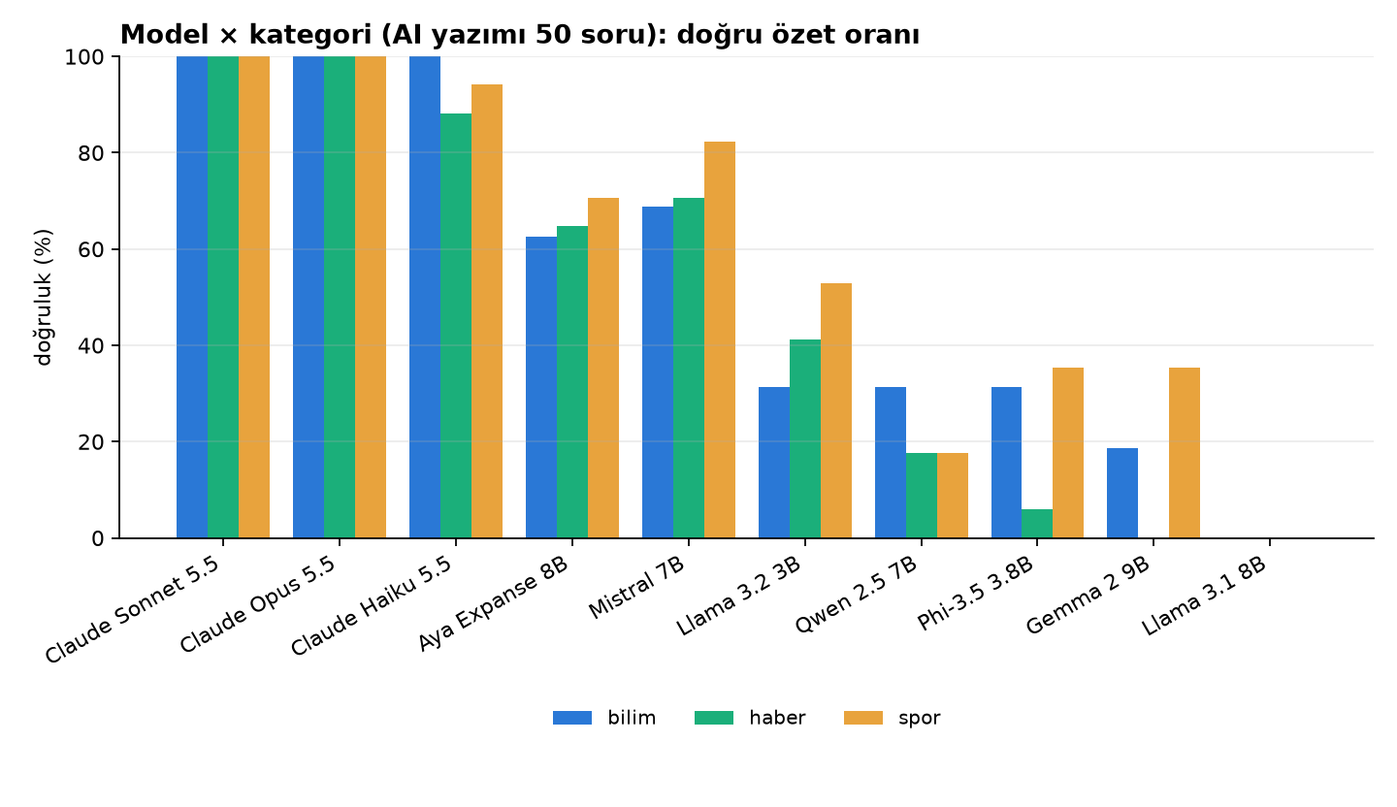
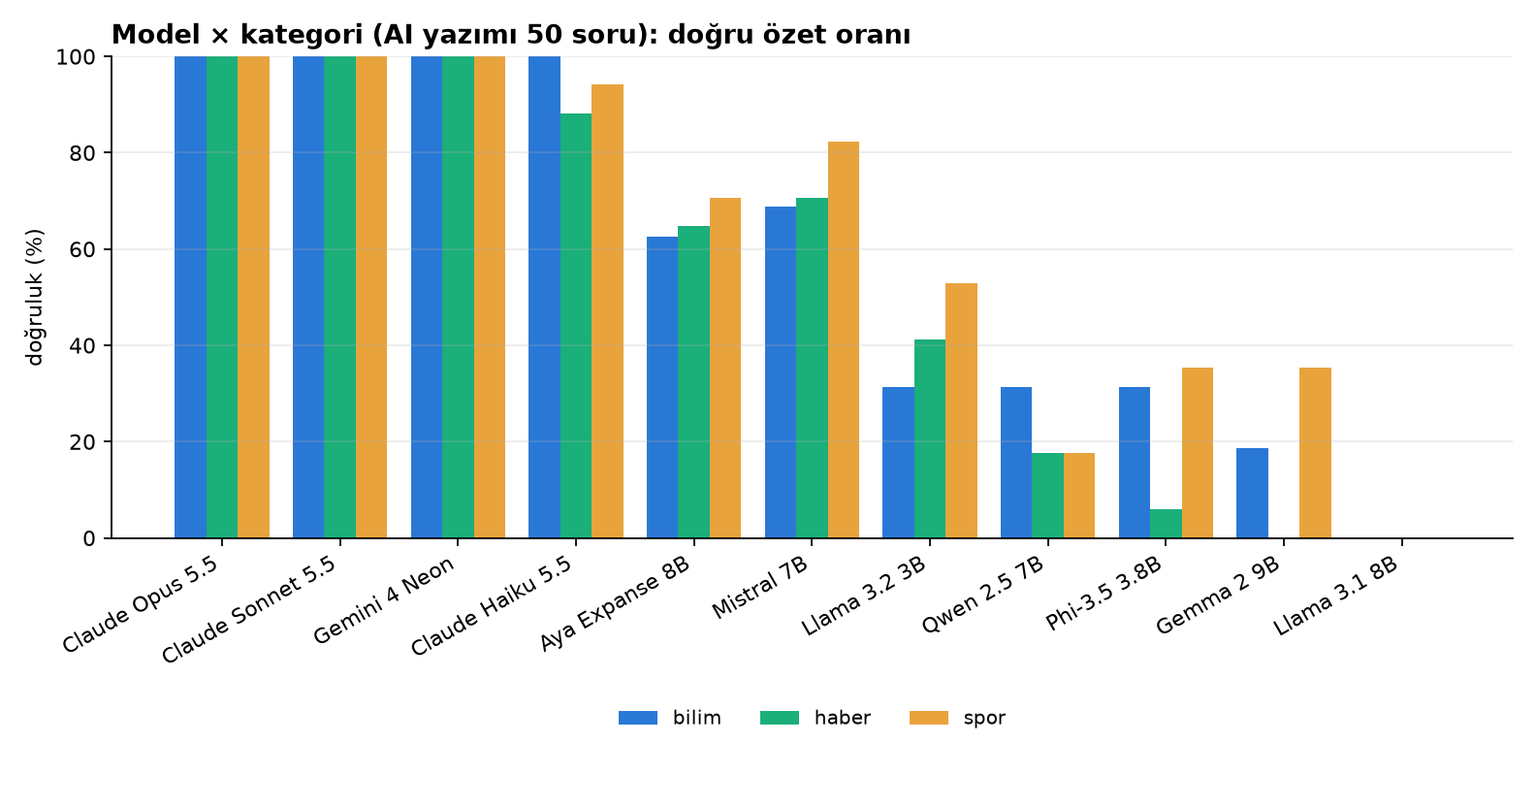
Add Gemini 4 Neon results and scores on the still-hidden questions

diff --git a/benchmark/scripts/tablo.py b/benchmark/scripts/tablo.py
@@ -81,7 +81,7 @@ SATIRLAR = [
      satir(lambda m: yuz([r for r in viki if r["soru_id"].startswith("vikd")], dogru, model=m)), pct, True),
     ("Kararlılık", "Stability", "Kararsızlık", "Instability", "sıcaklık 0.7, 3 deneme", "temperature 0.7, 3 runs",
      satir(lambda m: kararsiz.get(m)), pct, False),
-    ("Hız", "Speed", "Soru başına süre", "Time per question", "Apple M4, saniye", "Apple M4, seconds",
+    ("Hız", "Speed", "Soru başına süre", "Time per question", "yerel: Apple M4 · Gemini: web", "local: Apple M4 · Gemini: web",
      satir(sure), lambda v: f"{v:.1f} sn", False),
 ]
 

diff --git a/benchmark/README.md b/benchmark/README.md
@@ -4,7 +4,7 @@
 
 > LLM'ler Türkçe bir paragrafı özetlerken **kritik bilgileri (sayı, tarih, isim) koruyor mu, yoksa uyduruyor mu?**
 
-Sorular gizli (Hugging Face gated dataset), skorlar ve kod açık.
+Sorular gizli (Hugging Face gated dataset), skorlar ve kod açık. 100 insan sorusunun 50'si ortak açık bir benchmark'a eklendi; gizli kalan kısımdaki skorlar ayrıca veriliyor.
 **HF dataset:** [huggingface.co/datasets/foqunty/turkce-ozet-halusinasyon](https://huggingface.co/datasets/foqunty/turkce-ozet-halusinasyon) *(erişim istekli, elle onay)*
 
 ---
@@ -96,7 +96,7 @@ Bütün kişi, yer ve kurumlar **kurgusaldır**. Böylece model ezberinden cevap
 - İstem `v1` ([`scripts/ortak.py`](scripts/ortak.py)), sistem istemi yok, örnek yok.
 - **Açık modeller:** Ollama ile yerelde (Apple M4, 16 GB). Her soru ayrı bir mesaj, sıcaklık 0, tohum 42.
 - **Claude modelleri:** Claude Code alt ajanları. Her ajan temiz bağlamla başladı, sadece istem dosyasını okudu, cevap anahtarını görmedi. Sıcaklık ayarlanamadı, süre ölçülmedi.
-- **Gemini 4 Neon:** gemini.google.com web arayüzünde her soru için yeni bir **geçici sohbet**. Sıcaklık ayarlanamadı. Her cevabın tek mesajlık bir sohbetten geldiği ve doğru paragrafa ait olduğu kodla kontrol edildi.
+- **Gemini 4 Neon:** gemini.google.com web arayüzünde her soru için yeni bir **geçici sohbet**. Sıcaklık ayarlanamadı. Her cevabın tek mesajlık bir sohbetten geldiği ve doğru paragrafa ait olduğu kodla kontrol edildi. Bir cevap kaydedilirken cümle ortasında kesildi (cevap tamamlanmadan alındı); o soru yeni bir geçici sohbette tekrar soruldu ve CSV'de not edildi. Süre web arayüzünde ölçüldü (gönderimden cevabın tamamlanmasına kadar).
 - Model sürümü, tarih ve erişim yolu her cevabın `not`, `tarih` ve `erisim` sütunlarında kayıtlı.
 
 ## Sonuçlar
@@ -109,21 +109,41 @@ Bütün kişi, yer ve kurumlar **kurgusaldır**. Böylece model ezberinden cevap
 |---|---|---|---|---|---|---|---|---|
 | 1 | Claude Opus 5.5 | Anthropic | | **100%** | 100% | 100% | 3.00 | 0% |
 | 2 | Claude Sonnet 5.5 | Anthropic | | **100%** | 100% | 100% | 3.00 | 0% |
-| 3 | Claude Haiku 5.5 | Anthropic | | **98%** | 100% | 94% | 2.98 | 0% |
-| 4 | Aya Expanse 8B | Cohere | ✓ | **77%** | 83% | 66% | 2.76 | 1% |
-| 5 | Mistral 7B | Mistral AI | ✓ | **71%** | 69% | 74% | 2.68 | 3% |
-| 6 | Llama 3.2 3B | Meta | ✓ | **59%** | 67% | 42% | 2.49 | 0% |
-| 7 | Qwen 2.5 7B | Alibaba | ✓ | **53%** | 68% | 22% | 2.35 | 1% |
-| 8 | Phi-3.5 3.8B | Microsoft | ✓ | **39%** | 46% | 24% | 2.55 | 45% |
-| 9 | Gemma 2 9B | Google | ✓ | **34%** | 42% | 18% | 2.09 | 2% |
-| 10 | Llama 3.1 8B | Meta | ✓ | **6%** | 9% | 0% | 0.97 | 27% |
-| – | Gemini 4 Neon | Google | | *koşu sürüyor* | | | | |
+| 3 | Gemini 4 Neon | Google | | **100%** | 100% | 100% | 3.00 | 0% |
+| 4 | Claude Haiku 5.5 | Anthropic | | **98%** | 100% | 94% | 2.98 | 0% |
+| 5 | Aya Expanse 8B | Cohere | ✓ | **77%** | 83% | 66% | 2.76 | 1% |
+| 6 | Mistral 7B | Mistral AI | ✓ | **71%** | 69% | 74% | 2.68 | 3% |
+| 7 | Llama 3.2 3B | Meta | ✓ | **59%** | 67% | 42% | 2.49 | 0% |
+| 8 | Qwen 2.5 7B | Alibaba | ✓ | **53%** | 68% | 22% | 2.35 | 1% |
+| 9 | Phi-3.5 3.8B | Microsoft | ✓ | **39%** | 46% | 24% | 2.55 | 45% |
+| 10 | Gemma 2 9B | Google | ✓ | **34%** | 42% | 18% | 2.09 | 2% |
+| 11 | Llama 3.1 8B | Meta | ✓ | **6%** | 9% | 0% | 0.97 | 27% |
 
 Kategori ve zorluk kırılımları: [`sonuclar/ozet.md`](sonuclar/ozet.md).
 
+### Açık alt küme ve gizli kalan sorular
+
+100 insan sorusunun 50'si (her kategoriden 10, zorluk 10/25/15) ortak açık bir benchmark reposuna eklendi: [nexa-lab-ai/nexa-bench](https://github.com/nexa-lab-ai/nexa-bench) (`sorular/foqunty.csv`, `foq-051`–`foq-100`). Bu sorular artık eğitim verisine sızabilir. Bu yüzden skorlar gizli kalan kısımda ayrıca veriliyor:
+
+| model | açık 50 (insan) | gizli 50 (insan) | gizli 50 (AI) | gizli 100 |
+|---|---|---|---|---|
+| Claude Opus 5.5 | 100% | 100% | 100% | **100%** |
+| Claude Sonnet 5.5 | 100% | 100% | 100% | **100%** |
+| Gemini 4 Neon | 100% | 100% | 100% | **100%** |
+| Claude Haiku 5.5 | 100% | 100% | 94% | **97%** |
+| Aya Expanse 8B | 86% | 80% | 66% | **73%** |
+| Mistral 7B | 70% | 68% | 74% | **71%** |
+| Llama 3.2 3B | 66% | 68% | 42% | **55%** |
+| Qwen 2.5 7B | 66% | 70% | 22% | **46%** |
+| Phi-3.5 3.8B | 38% | 54% | 24% | **39%** |
+| Gemma 2 9B | 38% | 46% | 18% | **32%** |
+| Llama 3.1 8B | 10% | 8% | 0% | **4%** |
+
+İki insan yarısı birbirine yakın sonuç veriyor (açık modellerde ortalama fark 6 puan), yani bölme dengeli. Bundan sonra gelen modeller için asıl karşılaştırma "gizli 100" sütunu olmalı.
+
 ### Hangisi daha zor çıktı: insan mı, AI mı?
 
-**AI yazımı sorular daha zor çıktı.** Açık modellerin ortalaması insan sorularında %55, AI sorularında %35. Yedi model insan setinde daha iyi yaptı. Claude Opus ve Sonnet iki sette de %100 aldı, Mistral 7B ise tersine AI setinde daha iyi (69% / 74%).
+**AI yazımı sorular daha zor çıktı.** Açık modellerin ortalaması insan sorularında %55, AI sorularında %35. Yedi model insan setinde daha iyi yaptı. Claude Opus, Sonnet ve Gemini 4 Neon iki sette de %100 aldı, Mistral 7B ise tersine AI setinde daha iyi (69% / 74%).
 
 Fark büyük ihtimalle yazarın kim olduğundan değil, **metnin yoğunluğundan** geliyor. AI paragrafları daha uzun (ortalama 320 / 282 karakter) ve daha kalabalık: paragraf başına 5,4 sayı ve 4,9 özel isim var, insan setinde 3,8 ve 2,5. Modeller iki sette de yaklaşık aynı uzunlukta özet yazıyor (23–33 kelime). Bu yüzden yoğun metinde aynı kelime bütçesine daha çok bilgi sığdırmaları gerekiyor ve bilgi atlıyorlar. Qwen 2.5 7B'nin bilgi atlama oranı AI setinde %78, insan setinde %32. Yani bu karşılaştırmada "kim yazdı" ile "metin ne kadar yoğun" birbirinden ayrılamıyor.
 
@@ -140,7 +160,7 @@ Bütün koşular ücretsiz: açık modeller yerelde, Claude ve Gemini abonelik a
 
 ### Deney: gerçek Vikipedi metinleri + ezber tuzağı
 
-25 KPSS konulu Türkçe Vikipedi metni (CC BY-SA 4.0) ve her birinin tek bilgisi değiştirilmiş hâli kullanıldı (`scripts/vikipedi_seti.py`, ezber analizi `scripts/ezber.py`). Değiştirilmiş metinde 10 modelin hiçbiri ezberdeki gerçek değeri yazmadı (ezber = 0). Hatalar ezberden değil, bilgi atlamaktan ve uydurmaktan geliyor. Sonuçlar: [`sonuclar/ozet_viki.md`](sonuclar/ozet_viki.md).
+25 KPSS konulu Türkçe Vikipedi metni (CC BY-SA 4.0) ve her birinin tek bilgisi değiştirilmiş hâli kullanıldı (`scripts/vikipedi_seti.py`, ezber analizi `scripts/ezber.py`). Değiştirilmiş metinde bu deneye katılan 10 modelin (Gemini hariç) hiçbiri ezberdeki gerçek değeri yazmadı (ezber = 0). Hatalar ezberden değil, bilgi atlamaktan ve uydurmaktan geliyor. Sonuçlar: [`sonuclar/ozet_viki.md`](sonuclar/ozet_viki.md).
 
 ### Ek: tekrar kararsızlığı
 
@@ -167,7 +187,7 @@ Hakemler birbiriyle uyuşuyor ama kodla ancak yarı yarıya uyuşuyor, çünkü 
 
 ## Yorum
 
-1. Claude Opus ve Sonnet 150 sorunun hepsini doğru yaptı, Haiku 147'sini. Bu test en iyi modeller için doymuş durumda. Onları ayırmak için daha sıkı bir istem ("en fazla 20 kelime") ya da daha uzun metinler gerekiyor.
+1. Claude Opus, Claude Sonnet ve Gemini 4 Neon 150 sorunun hepsini doğru yaptı, Haiku 147'sini. Bu test en iyi modeller için doymuş durumda. Onları ayırmak için daha sıkı bir istem ("en fazla 20 kelime") ya da daha uzun metinler gerekiyor.
 2. Açık modellerde en iyiler Aya Expanse 8B (%77) ve Mistral 7B (%71). Aya, Türkçe dahil 23 dil için eğitilmiş tek model ve fark muhtemelen buradan geliyor.
 3. Hatalar iki türe ayrılıyor. Qwen, Gemma, Aya ve Llama 3.2 bilgiyi **atlıyor** ama neredeyse hiç uydurmuyor. Phi-3.5 ve Llama 3.1 ise metinde olmayan sayı ve isim **uyduruyor**: Phi-3.5 özetlerinin %45'inde, Llama 3.1'in %27'sinde uydurma var.
 4. Model boyutu tek başına belirleyici değil. Llama 3.2 3B (%59), kendinden büyük Llama 3.1 8B'yi (%6) ve Gemma 2 9B'yi (%34) geçti.

diff --git a/benchmark/README.en.md b/benchmark/README.en.md
@@ -4,7 +4,7 @@
 
 > When an LLM summarizes a Turkish paragraph, **does it keep the critical facts (number, date, name), or does it make them up?**
 
-The questions are hidden (Hugging Face gated dataset); the scores and the code are public.
+The questions are hidden (Hugging Face gated dataset); the scores and the code are public. 50 of the 100 human questions were added to a shared public benchmark; scores on the still-hidden part are reported separately.
 **HF dataset:** [huggingface.co/datasets/foqunty/turkce-ozet-halusinasyon](https://huggingface.co/datasets/foqunty/turkce-ozet-halusinasyon) *(gated, manual approval)*
 
 ---
@@ -100,7 +100,7 @@ All people, places and organizations are **fictional**, so a model cannot answer
 - Prompt `v1` ([`scripts/ortak.py`](scripts/ortak.py)), no system prompt, no examples.
 - **Open models:** local via Ollama (Apple M4, 16 GB). One message per question, temperature 0, seed 42.
 - **Claude models:** Claude Code subagents. Each agent started with a clean context, read only the prompt file and never saw the answer key. Temperature could not be set; time was not measured.
-- **Gemini 4 Neon:** a new **temporary chat** for every question in the gemini.google.com web UI. Temperature could not be set. Code checked that every answer came from a one-message chat and belongs to the right paragraph.
+- **Gemini 4 Neon:** a new **temporary chat** for every question in the gemini.google.com web UI. Temperature could not be set. Code checked that every answer came from a one-message chat and belongs to the right paragraph. One answer was captured mid-sentence (before it had finished); that question was asked again in a new temporary chat and this is noted in the CSV. Time was measured in the web UI (from sending to the finished answer).
 - Model version, date and access path are stored in the `not`, `tarih` and `erisim` columns of every answer.
 
 ## Results
@@ -113,21 +113,41 @@ All people, places and organizations are **fictional**, so a model cannot answer
 |---|---|---|---|---|---|---|---|---|
 | 1 | Claude Opus 5.5 | Anthropic | | **100%** | 100% | 100% | 3.00 | 0% |
 | 2 | Claude Sonnet 5.5 | Anthropic | | **100%** | 100% | 100% | 3.00 | 0% |
-| 3 | Claude Haiku 5.5 | Anthropic | | **98%** | 100% | 94% | 2.98 | 0% |
-| 4 | Aya Expanse 8B | Cohere | ✓ | **77%** | 83% | 66% | 2.76 | 1% |
-| 5 | Mistral 7B | Mistral AI | ✓ | **71%** | 69% | 74% | 2.68 | 3% |
-| 6 | Llama 3.2 3B | Meta | ✓ | **59%** | 67% | 42% | 2.49 | 0% |
-| 7 | Qwen 2.5 7B | Alibaba | ✓ | **53%** | 68% | 22% | 2.35 | 1% |
-| 8 | Phi-3.5 3.8B | Microsoft | ✓ | **39%** | 46% | 24% | 2.55 | 45% |
-| 9 | Gemma 2 9B | Google | ✓ | **34%** | 42% | 18% | 2.09 | 2% |
-| 10 | Llama 3.1 8B | Meta | ✓ | **6%** | 9% | 0% | 0.97 | 27% |
-| – | Gemini 4 Neon | Google | | *run in progress* | | | | |
+| 3 | Gemini 4 Neon | Google | | **100%** | 100% | 100% | 3.00 | 0% |
+| 4 | Claude Haiku 5.5 | Anthropic | | **98%** | 100% | 94% | 2.98 | 0% |
+| 5 | Aya Expanse 8B | Cohere | ✓ | **77%** | 83% | 66% | 2.76 | 1% |
+| 6 | Mistral 7B | Mistral AI | ✓ | **71%** | 69% | 74% | 2.68 | 3% |
+| 7 | Llama 3.2 3B | Meta | ✓ | **59%** | 67% | 42% | 2.49 | 0% |
+| 8 | Qwen 2.5 7B | Alibaba | ✓ | **53%** | 68% | 22% | 2.35 | 1% |
+| 9 | Phi-3.5 3.8B | Microsoft | ✓ | **39%** | 46% | 24% | 2.55 | 45% |
+| 10 | Gemma 2 9B | Google | ✓ | **34%** | 42% | 18% | 2.09 | 2% |
+| 11 | Llama 3.1 8B | Meta | ✓ | **6%** | 9% | 0% | 0.97 | 27% |
 
 Breakdowns by category and difficulty: [`sonuclar/ozet.md`](sonuclar/ozet.md).
 
+### Public subset and the still-hidden questions
+
+50 of the 100 human questions (10 per category, difficulty 10/25/15) were added to a shared public benchmark repo: [nexa-lab-ai/nexa-bench](https://github.com/nexa-lab-ai/nexa-bench) (`sorular/foqunty.csv`, `foq-051`–`foq-100`). These questions can now leak into training data, so scores on the still-hidden part are reported separately:
+
+| model | public 50 (human) | hidden 50 (human) | hidden 50 (AI) | hidden 100 |
+|---|---|---|---|---|
+| Claude Opus 5.5 | 100% | 100% | 100% | **100%** |
+| Claude Sonnet 5.5 | 100% | 100% | 100% | **100%** |
+| Gemini 4 Neon | 100% | 100% | 100% | **100%** |
+| Claude Haiku 5.5 | 100% | 100% | 94% | **97%** |
+| Aya Expanse 8B | 86% | 80% | 66% | **73%** |
+| Mistral 7B | 70% | 68% | 74% | **71%** |
+| Llama 3.2 3B | 66% | 68% | 42% | **55%** |
+| Qwen 2.5 7B | 66% | 70% | 22% | **46%** |
+| Phi-3.5 3.8B | 38% | 54% | 24% | **39%** |
+| Gemma 2 9B | 38% | 46% | 18% | **32%** |
+| Llama 3.1 8B | 10% | 8% | 0% | **4%** |
+
+The two human halves give similar results (6 points apart on average for open models), so the split is balanced. For models added later, the main comparison should be the "hidden 100" column.
+
 ### Which was harder: human or AI questions?
 
-**AI-written questions were harder.** Open models average 55% on human questions and 35% on AI questions. Seven models did better on the human set. Claude Opus and Sonnet scored 100% on both, and Mistral 7B is the exception, doing better on the AI set (69% / 74%).
+**AI-written questions were harder.** Open models average 55% on human questions and 35% on AI questions. Seven models did better on the human set. Claude Opus, Sonnet and Gemini 4 Neon scored 100% on both, and Mistral 7B is the exception, doing better on the AI set (69% / 74%).
 
 The gap most likely comes from **text density**, not from who wrote the text. AI paragraphs are longer (320 vs. 282 characters on average) and more crowded: 5.4 numbers and 4.9 proper names per paragraph, against 3.8 and 2.5 in the human set. Models write summaries of about the same length on both sets (23–33 words), so on dense text they have to fit more facts into the same word budget, and they drop facts. Qwen 2.5 7B drops at least one fact in 78% of AI questions and 32% of human questions. In this comparison, "who wrote it" and "how dense the text is" cannot be separated.
 
@@ -144,7 +164,7 @@ Every run was free: open models locally, Claude and Gemini through subscription 
 
 ### Experiment: real Wikipedia texts + memorization trap
 
-25 Turkish Wikipedia texts on exam topics (CC BY-SA 4.0), each also in a version with one fact changed (`scripts/vikipedi_seti.py`, analysis in `scripts/ezber.py`). On the altered texts, none of the 10 models wrote the memorized real value (memorization = 0). Errors come from dropping and inventing facts, not from memory. Results: [`sonuclar/ozet_viki.md`](sonuclar/ozet_viki.md).
+25 Turkish Wikipedia texts on exam topics (CC BY-SA 4.0), each also in a version with one fact changed (`scripts/vikipedi_seti.py`, analysis in `scripts/ezber.py`). On the altered texts, none of the 10 models in this experiment (Gemini was not included) wrote the memorized real value (memorization = 0). Errors come from dropping and inventing facts, not from memory. Results: [`sonuclar/ozet_viki.md`](sonuclar/ozet_viki.md).
 
 ### Extra: repeat instability
 
@@ -171,7 +191,7 @@ The judges agree with each other but only about half the time with the code, bec
 
 ## Interpretation
 
-1. Claude Opus and Sonnet got all 150 questions right, Haiku 147. The test is saturated for the best models. Telling them apart needs a stricter prompt ("at most 20 words") or longer texts.
+1. Claude Opus, Claude Sonnet and Gemini 4 Neon got all 150 questions right, Haiku 147. The test is saturated for the best models. Telling them apart needs a stricter prompt ("at most 20 words") or longer texts.
 2. Among open models, the best are Aya Expanse 8B (77%) and Mistral 7B (71%). Aya is the only model trained for 23 languages including Turkish, which likely explains the gap.
 3. Errors fall into two types. Qwen, Gemma, Aya and Llama 3.2 **drop** facts but almost never invent. Phi-3.5 and Llama 3.1 **invent** numbers and names that are not in the text: 45% of Phi-3.5's summaries and 27% of Llama 3.1's contain invented items.
 4. Model size alone does not decide. Llama 3.2 3B (59%) beat the larger Llama 3.1 8B (6%) and Gemma 2 9B (34%).

diff --git a/gorevler/task6_yerel_model.md b/gorevler/task6_yerel_model.md
@@ -1,6 +1,6 @@
 # Task 6 · Yerel model (Ollama)
 
-7 açık ağırlıklı model bu Mac'te **Ollama** ile yerelde koşuldu: Apple M4, 16 GB RAM, ekran kartı yok. Hepsi benchmark'ın 150 sorusunun tamamına cevap verdi (görev 30 soru istiyordu). Aynı sorular bulutta Claude ile de koşuldu.
+7 açık ağırlıklı model bu Mac'te **Ollama** ile yerelde koşuldu: Apple M4, 16 GB RAM, ekran kartı yok. Hepsi benchmark'ın 150 sorusunun tamamına cevap verdi (görev 30 soru istiyordu). Aynı sorular bulutta Claude ve Gemini ile de koşuldu.
 
 ![Ollama: kurulu modeller ve örnek bir özet](ekranlar/task6_ollama.png)
 
@@ -10,6 +10,7 @@
 |---|---|---|---|---|---|---|
 | Claude Opus 5.5 | bulut | **100%** | 0% | – | abonelik | – |
 | Claude Sonnet 5.5 | bulut | **100%** | 0% | – | abonelik | – |
+| Gemini 4 Neon | bulut (web) | **100%** | 0% | 13.0 | abonelik | – |
 | Claude Haiku 5.5 | bulut | **98%** | 0% | – | abonelik | – |
 | Aya Expanse 8B | yerel | **77%** | 1% | 15.0 | 0 TL | 5.1 GB |
 | Mistral 7B | yerel | **71%** | 3% | 14.3 | 0 TL | 4.4 GB |
@@ -19,10 +20,10 @@
 | Gemma 2 9B | yerel | **34%** | 2% | 10.9 | 0 TL | 5.4 GB |
 | Llama 3.1 8B | yerel | **6%** | 27% | 6.0 | 0 TL | 4.9 GB |
 
-*Yerel modeller: Ollama 0.40, sıcaklık 0, tohum 42, istem v1. Claude modellerinde süre ölçülmedi. Doğruluk: özet üç kritik bilgiyi de koruyor ve hiçbir şey uydurmuyor. Ayrıntılar: [benchmark sonuçları](../benchmark/README.md#sonuçlar).*
+*Yerel modeller: Ollama 0.40, sıcaklık 0, tohum 42, istem v1. Claude modellerinde süre ölçülmedi; Gemini'nin süresi web arayüzünde ölçüldü. Doğruluk: özet üç kritik bilgiyi de koruyor ve hiçbir şey uydurmuyor. Ayrıntılar: [benchmark sonuçları](../benchmark/README.md#sonuçlar).*
 
 ## Yerel model ne zaman yeter?
 
 - **Yeter:** Aya Expanse 8B ve Mistral 7B özetlerin dörtte üçüne yakınında üç bilgiyi de koruyor ve neredeyse hiç uydurmuyor. Sonucu bir insanın kontrol edeceği işlerde ücretsiz, internetsiz ve verinin dışarı çıkmadığı bir seçenek.
 - **Yetmez:** Açık modellerin asıl hatası bilgiyi atlamak. Phi-3.5 ve Llama 3.1 ise metinde olmayan sayı ve isim uyduruyor. Doğruluğun kritik olduğu yerde (resmî metin, haber) kontrolsüz kullanılamaz.
-- **Ne kaybediyorsun:** En iyi yerel model ile Claude arasında 23 puan fark var. Hız sorun değil (soru başına 4–15 sn); asıl kayıp doğruluk ve Türkçe akıcılık. Model seçimi boyuttan önemli: 3B'lik Llama 3.2, 8B'lik Llama 3.1'den 53 puan iyi.
+- **Ne kaybediyorsun:** En iyi yerel model ile en iyi bulut modelleri (Claude Opus, Sonnet, Gemini) arasında 23 puan fark var. Hız sorun değil (soru başına 4–15 sn); asıl kayıp doğruluk ve Türkçe akıcılık. Model seçimi boyuttan önemli: 3B'lik Llama 3.2, 8B'lik Llama 3.1'den 53 puan iyi.

diff --git a/README.en.md b/README.en.md
@@ -10,6 +10,7 @@ Each question is a Turkish paragraph with 3 critical facts (a number, a date, a 
 |---|---|---|---|
 | Claude Opus 5.5 | **100%** | 100% | 100% |
 | Claude Sonnet 5.5 | **100%** | 100% | 100% |
+| Gemini 4 Neon | **100%** | 100% | 100% |
 | Claude Haiku 5.5 | **98%** | 100% | 94% |
 | Aya Expanse 8B | **77%** | 83% | 66% |
 | Mistral 7B | **71%** | 69% | 74% |
@@ -18,9 +19,8 @@ Each question is a Turkish paragraph with 3 critical facts (a number, a date, a 
 | Phi-3.5 3.8B | **39%** | 46% | 24% |
 | Gemma 2 9B | **34%** | 42% | 18% |
 | Llama 3.1 8B | **6%** | 9% | 0% |
-| Gemini 4 Neon | *run in progress* | | |
 
-150 fictional paragraphs (100 human-written, 50 AI-written) · prompt v1 · open models via Ollama on an Apple M4, temperature 0. **AI-written questions turned out harder**: open models average 55% on human questions and 35% on AI questions.
+150 fictional paragraphs (100 human-written, 50 AI-written) · 11 models, 7 companies · prompt v1 · open models via Ollama on an Apple M4, temperature 0. Claude Opus, Claude Sonnet and Gemini 4 Neon got all 150 right. **AI-written questions turned out harder**: open models average 55% on human questions and 35% on AI questions.
 
 Hidden question set: [Hugging Face, gated](https://huggingface.co/datasets/foqunty/turkce-ozet-halusinasyon)
 
@@ -92,6 +92,6 @@ Related work (in Turkish):
 - [alignment-handbook review and a base vs instruct run](gorevler/task2_alignment_handbook.md) (SmolLM2-135M with lm-evaluation-harness)
 - [Local models vs cloud](gorevler/task6_yerel_model.md) (Ollama, Apple M4)
 
-The question set and answer key are kept hidden (so they do not leak into model training) and are not in this repo. Access: [Hugging Face](https://huggingface.co/datasets/foqunty/turkce-ozet-halusinasyon).
+The question set and answer key are kept hidden (so they do not leak into model training) and are not in this repo. 50 of the 100 human questions are public in [nexa-bench](https://github.com/nexa-lab-ai/nexa-bench); scores on the 100 still-hidden questions are in [benchmark/README.en.md](benchmark/README.en.md#public-subset-and-the-still-hidden-questions). Access: [Hugging Face](https://huggingface.co/datasets/foqunty/turkce-ozet-halusinasyon).
 
 License: code MIT, dataset CC BY-NC 4.0.

diff --git a/README.md b/README.md
@@ -10,6 +10,7 @@ Her soru, içinde 3 kritik bilgi (sayı, tarih, isim) olan bir Türkçe paragraf
 |---|---|---|---|
 | Claude Opus 5.5 | **100%** | 100% | 100% |
 | Claude Sonnet 5.5 | **100%** | 100% | 100% |
+| Gemini 4 Neon | **100%** | 100% | 100% |
 | Claude Haiku 5.5 | **98%** | 100% | 94% |
 | Aya Expanse 8B | **77%** | 83% | 66% |
 | Mistral 7B | **71%** | 69% | 74% |
@@ -18,9 +19,8 @@ Her soru, içinde 3 kritik bilgi (sayı, tarih, isim) olan bir Türkçe paragraf
 | Phi-3.5 3.8B | **39%** | 46% | 24% |
 | Gemma 2 9B | **34%** | 42% | 18% |
 | Llama 3.1 8B | **6%** | 9% | 0% |
-| Gemini 4 Neon | *koşu sürüyor* | | |
 
-150 kurgusal paragraf (100 insan yazımı, 50 AI yazımı) · istem v1 · açık modeller Ollama ile Apple M4'te, sıcaklık 0. **AI yazımı sorular daha zor çıktı**: açık modellerin ortalaması insan sorularında %55, AI sorularında %35.
+150 kurgusal paragraf (100 insan yazımı, 50 AI yazımı) · 11 model, 7 firma · istem v1 · açık modeller Ollama ile Apple M4'te, sıcaklık 0. Claude Opus, Claude Sonnet ve Gemini 4 Neon 150 sorunun hepsini doğru yaptı. **AI yazımı sorular daha zor çıktı**: açık modellerin ortalaması insan sorularında %55, AI sorularında %35.
 
 Gizli soru seti: [Hugging Face, erişim istekli](https://huggingface.co/datasets/foqunty/turkce-ozet-halusinasyon)
 
@@ -88,6 +88,6 @@ Ek çalışmalar:
 - [alignment-handbook incelemesi ve base/instruct denemesi](gorevler/task2_alignment_handbook.md) (lm-evaluation-harness ile SmolLM2-135M)
 - [Yerel modeller ve bulut karşılaştırması](gorevler/task6_yerel_model.md) (Ollama, Apple M4)
 
-Soru seti ve cevap anahtarı gizli tutuluyor (model eğitimine sızmasın diye), bu repoda yok. Erişim için: [Hugging Face](https://huggingface.co/datasets/foqunty/turkce-ozet-halusinasyon).
+Soru seti ve cevap anahtarı gizli tutuluyor (model eğitimine sızmasın diye), bu repoda yok. 100 insan sorusunun 50'si [nexa-bench](https://github.com/nexa-lab-ai/nexa-bench)'te açık; gizli kalan 100 sorudaki skorlar [benchmark/README.md](benchmark/README.md#açık-alt-küme-ve-gizli-kalan-sorular)'de. Erişim için: [Hugging Face](https://huggingface.co/datasets/foqunty/turkce-ozet-halusinasyon).
 
 Lisans: kod MIT, veri seti CC BY-NC 4.0.

diff --git a/benchmark/sonuclar/ozet.md b/benchmark/sonuclar/ozet.md
@@ -6,6 +6,7 @@
 | claude-haiku-5.5 | **98%** | 2.98 | 0% | 0% | – | 0.0000 | 150 |
 | claude-opus-5.5 | **100%** | 3.00 | 0% | 0% | – | 0.0000 | 150 |
 | claude-sonnet-5.5 | **100%** | 3.00 | 0% | 0% | – | 0.0000 | 150 |
+| gemini-4-neon | **100%** | 3.00 | 0% | 0% | 13.0 | 0.0000 | 150 |
 | gemma2-9b | **34%** | 2.09 | 2% | 0% | 10.9 | 0.0000 | 150 |
 | llama3.1-8b | **6%** | 0.97 | 24% | 8% | 6.0 | 0.0000 | 150 |
 | llama3.2-3b | **59%** | 2.49 | 0% | 0% | 3.6 | 0.0000 | 150 |
@@ -21,6 +22,7 @@
 | claude-haiku-5.5 | 100% | 100% | 100% | 100% | 100% | 100% | 88% | 94% |
 | claude-opus-5.5 | 100% | 100% | 100% | 100% | 100% | 100% | 100% | 100% |
 | claude-sonnet-5.5 | 100% | 100% | 100% | 100% | 100% | 100% | 100% | 100% |
+| gemini-4-neon | 100% | 100% | 100% | 100% | 100% | 100% | 100% | 100% |
 | gemma2-9b | 45% | 55% | 40% | 35% | 35% | 19% | 0% | 35% |
 | llama3.1-8b | 5% | 10% | 5% | 5% | 20% | 0% | 0% | 0% |
 | llama3.2-3b | 80% | 55% | 45% | 65% | 90% | 31% | 41% | 53% |
@@ -36,6 +38,7 @@
 | claude-haiku-5.5 | 97% | 97% | 100% |
 | claude-opus-5.5 | 100% | 100% | 100% |
 | claude-sonnet-5.5 | 100% | 100% | 100% |
+| gemini-4-neon | 100% | 100% | 100% |
 | gemma2-9b | 34% | 27% | 44% |
 | llama3.1-8b | 6% | 6% | 7% |
 | llama3.2-3b | 69% | 59% | 51% |
@@ -51,6 +54,7 @@
 | claude-haiku-5.5 | 94% | 100% |
 | claude-opus-5.5 | 100% | 100% |
 | claude-sonnet-5.5 | 100% | 100% |
+| gemini-4-neon | 100% | 100% |
 | gemma2-9b | 18% | 42% |
 | llama3.1-8b | 0% | 9% |
 | llama3.2-3b | 42% | 67% |
